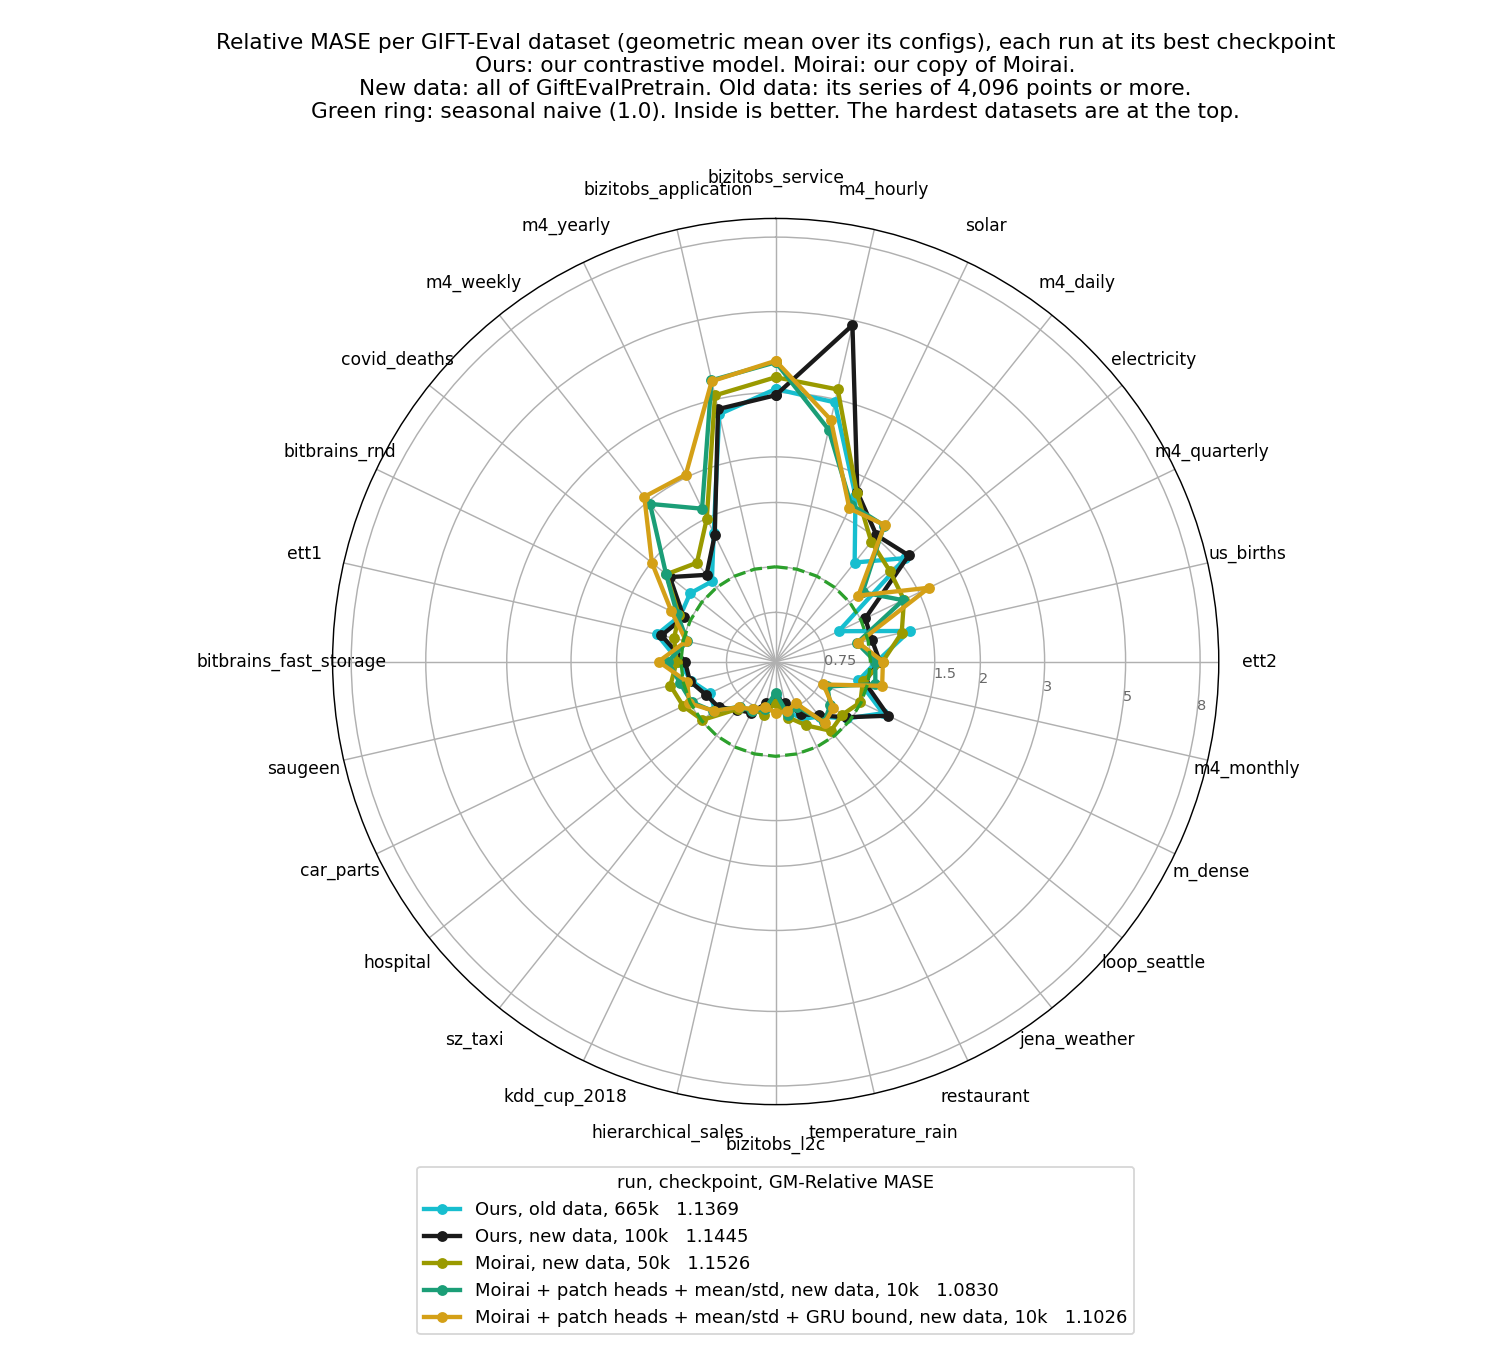
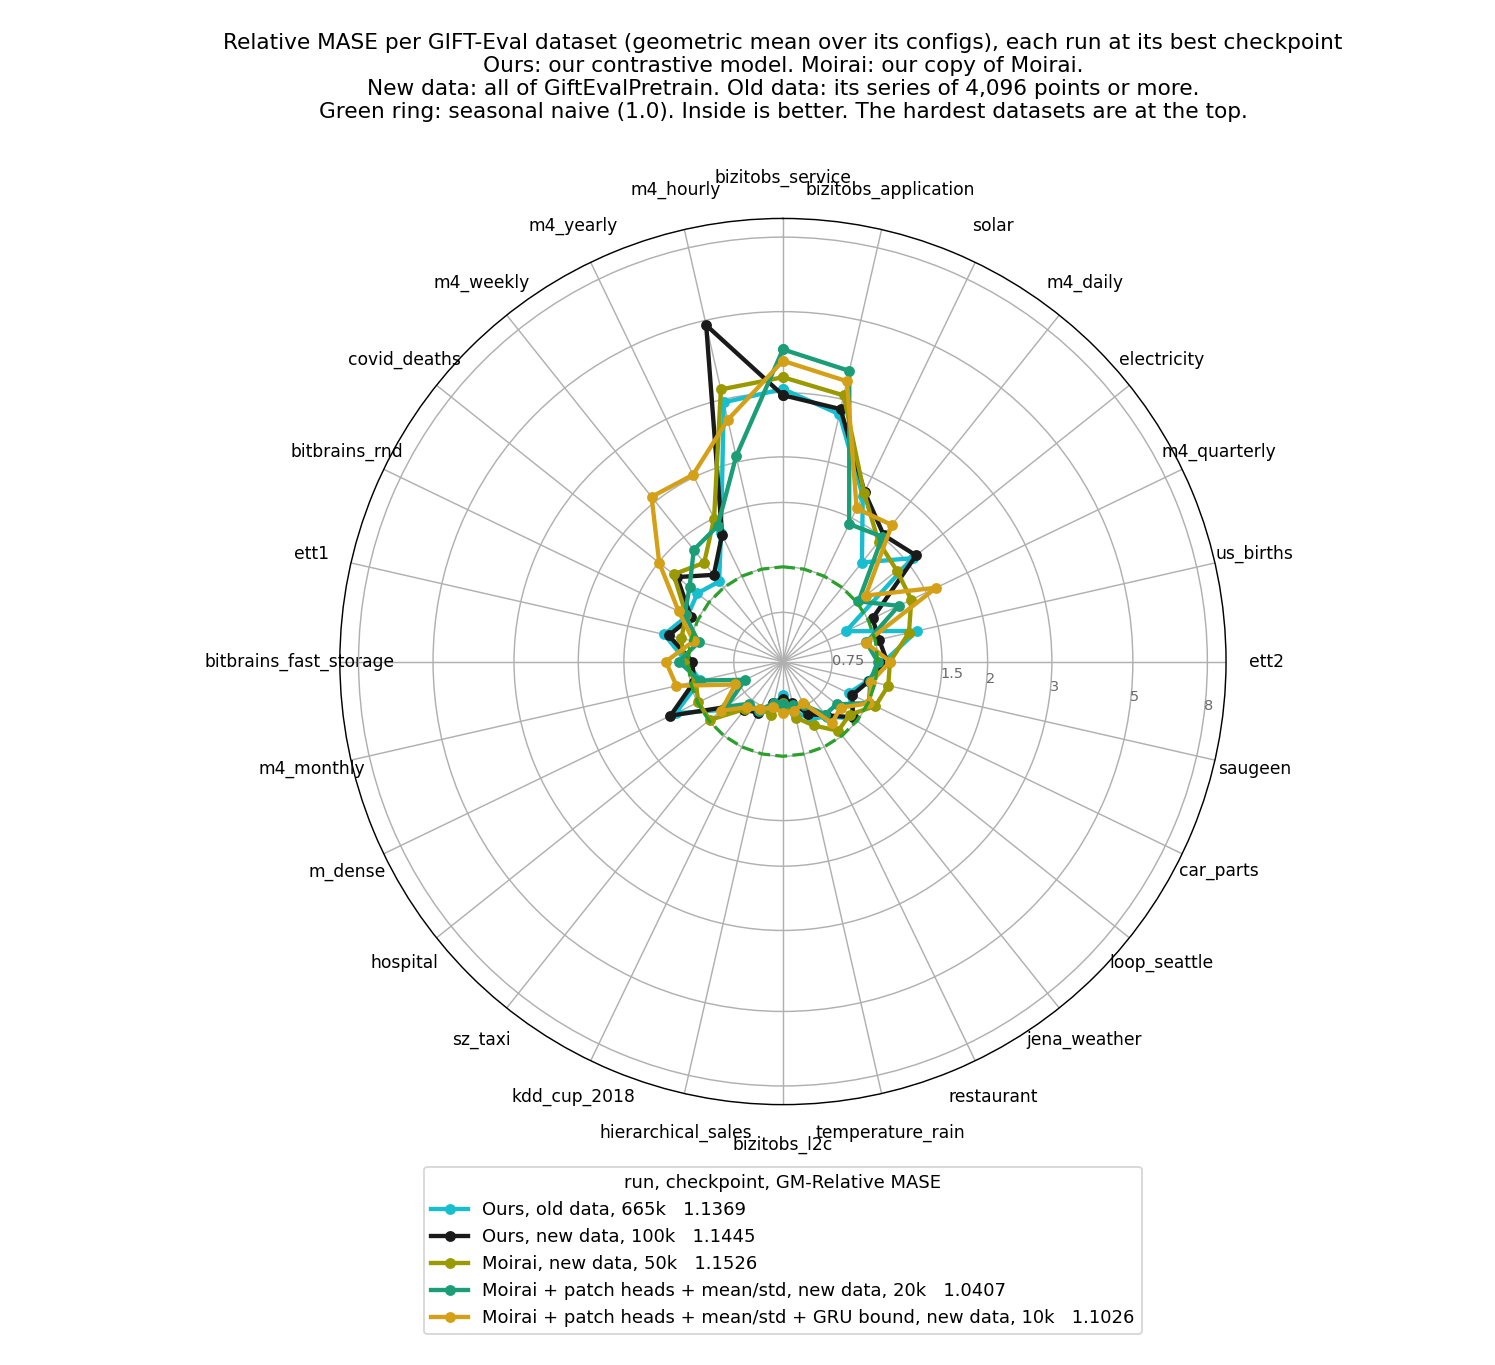
exp(#421): Moirai with patch heads and mean/std scores 1.0407 at 20k, native
The clean fp32 20k checkpoint of #421f, the last one before its loss
jump at step 20,700. The curves reach down to 1.02, and the dashed line
of 1.0651 names the best of ours at 1.1M parameters.

diff --git a/reports/2026-09-06_moirai_small_size/scripts/plot_gm_rates.py b/reports/2026-09-06_moirai_small_size/scripts/plot_gm_rates.py
@@ -41,7 +41,7 @@ XSCALE = {"cf415_moirai": 4, "cf415_moirai_native": 4, "cf419_moirai_native": 4,
 # Where the last score of a line prints, so two lines that end together part.
 END_LABEL_OFFSET = {P + "_lr100x": (9, 4), P + "_cos200k": (9, -12)}
 BEST, BAND, PROJECT_BEST = 1.1369, 0.008, 1.0651
-YMIN, YMAX = 1.05, 1.66
+YMIN, YMAX = 1.02, 1.66
 
 
 def load_points():
@@ -79,8 +79,8 @@ def draw_references(ax):
     ax.text(42000, BEST - 0.016, f"{BEST}: best of ours, old data, 665k.  "
             "Shaded: the seed band, 0.008", fontsize=9.5, color="#2ca02c")
     ax.axhline(PROJECT_BEST, color="#e8173c", ls="--", lw=1.4, zorder=1)
-    ax.text(42000, PROJECT_BEST + 0.005, f"{PROJECT_BEST}: project best "
-            "(ours, 1.1M parameters, 200k steps)", fontsize=9.5, color="#e8173c")
+    ax.text(110000, PROJECT_BEST + 0.005, f"{PROJECT_BEST}: best of ours at 1.1M parameters, "
+            "200k steps", fontsize=9.5, color="#e8173c")
     ax.axvline(665000, color="#555555", ls=":", lw=1.2, zorder=1)
     ax.text(675000, YMAX - 0.012, "one pass\nover the data", fontsize=9,
             color="#555555", va="top")
